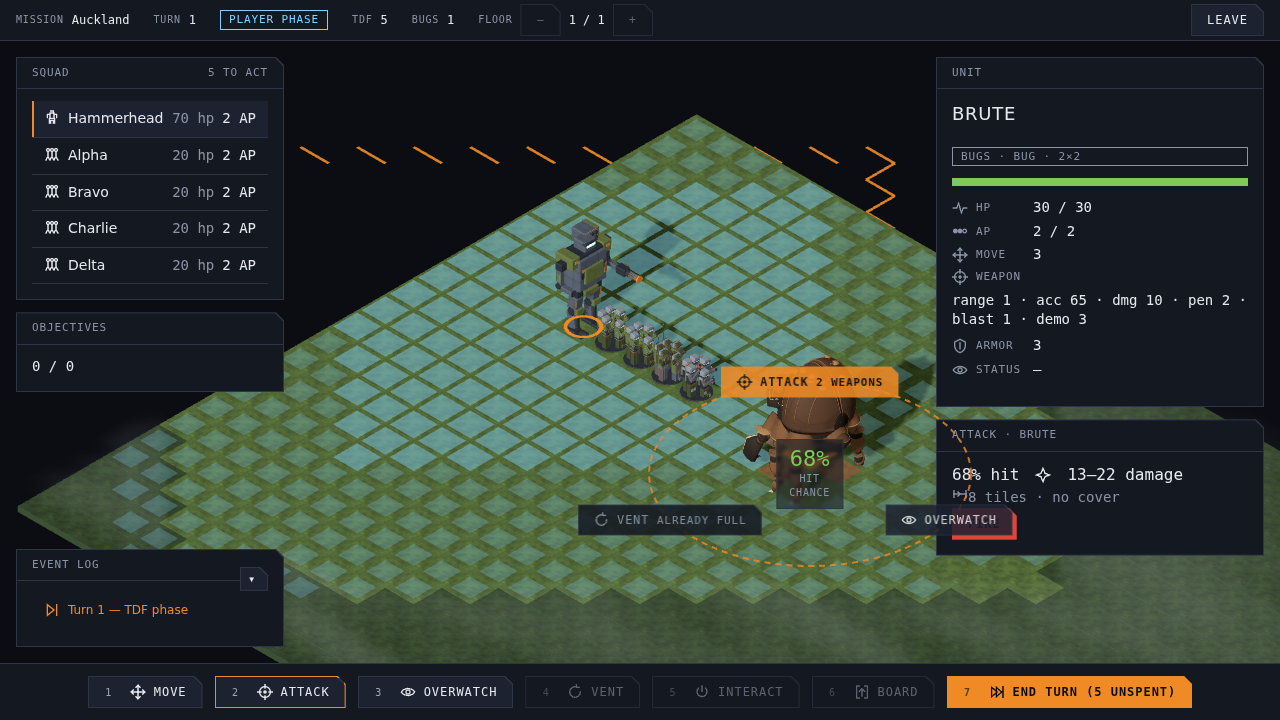
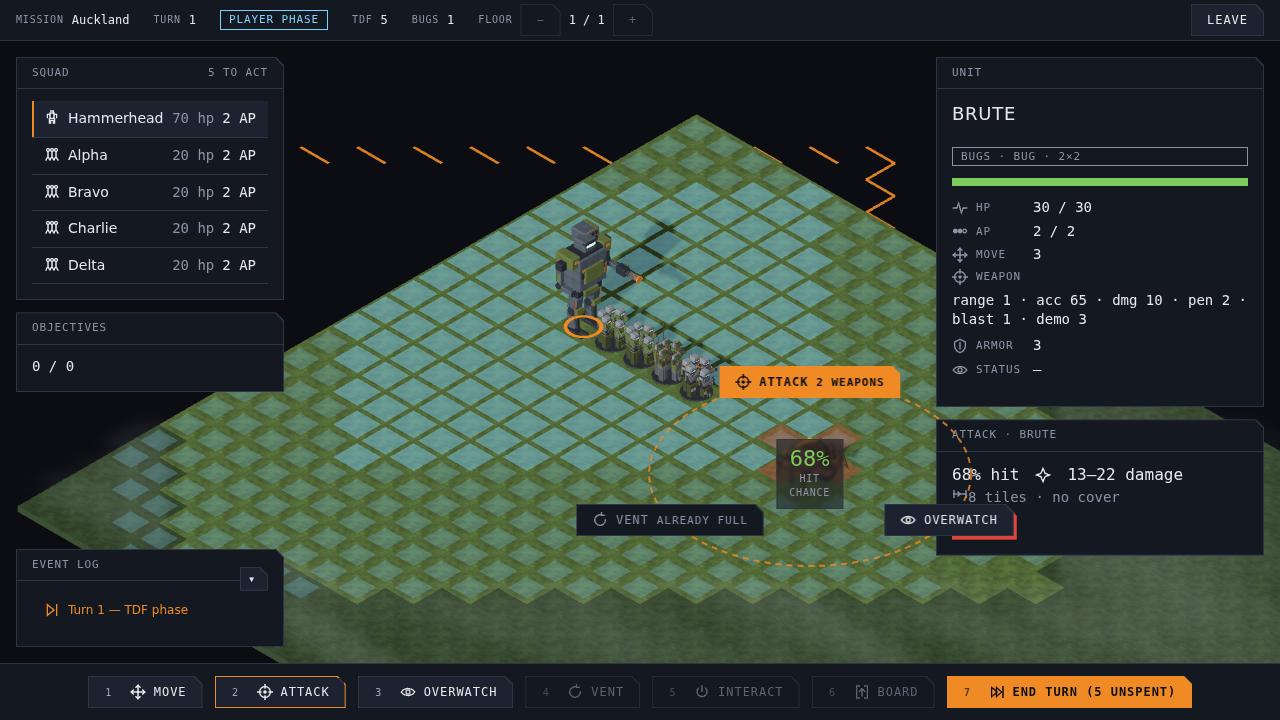
test(e2e): pan a spawner out from under the HUD rail before clicking it; renders with the rebuilt brute (#1134)

diff --git a/e2e/tactical-spawners.spec.ts b/e2e/tactical-spawners.spec.ts
@@ -154,6 +154,41 @@ test("egg spawners are drawn on the tactical map and can be targeted by clicking
       );
     })
     .toBe(true);
+  // The HUD's rail and card stop pointer events (#1113), and since #1134
+  // the rail stands on the left of the map, so a spawner that projects
+  // under a panel is panned into the open before the click. One tap
+  // says which way the pan moves the picture; the rest follow it.
+  const covered = async (p: { x: number; y: number }): Promise<boolean> =>
+    page.evaluate(({ x, y }) => {
+      const el = document.elementFromPoint(x, y);
+      return (
+        el !== null && el.closest(".tut-hud__rail, .tut-hud__side") !== null
+      );
+    }, p);
+  for (let step = 0; step < 24 && (await covered(point!)); step++) {
+    const wantRight = point!.x < bounds!.x + bounds!.width / 2;
+    const before = point!.x;
+    await page.keyboard.press(wantRight ? "a" : "d");
+    await page.waitForTimeout(80);
+    point = await page.evaluate(
+      (id: string) =>
+        (globalThis as HookGlobal).__tutTactical__?.spawnerScreenPosition(id),
+      spawnerId,
+    );
+    if (point !== undefined && wantRight === point.x < before) {
+      // The tap went the other way: press the opposite key twice to
+      // net one step in the wanted direction.
+      await page.keyboard.press(wantRight ? "d" : "a");
+      await page.keyboard.press(wantRight ? "d" : "a");
+      await page.waitForTimeout(80);
+      point = await page.evaluate(
+        (id: string) =>
+          (globalThis as HookGlobal).__tutTactical__?.spawnerScreenPosition(id),
+        spawnerId,
+      );
+    }
+  }
+  expect(await covered(point!), "the spawner must be in the open").toBe(false);
   await expect(body).not.toHaveAttribute("data-selected-spawner", spawnerId);
   await page.mouse.click(point!.x, point!.y);
   await expect(body).toHaveAttribute("data-selected-spawner", spawnerId ?? "");
